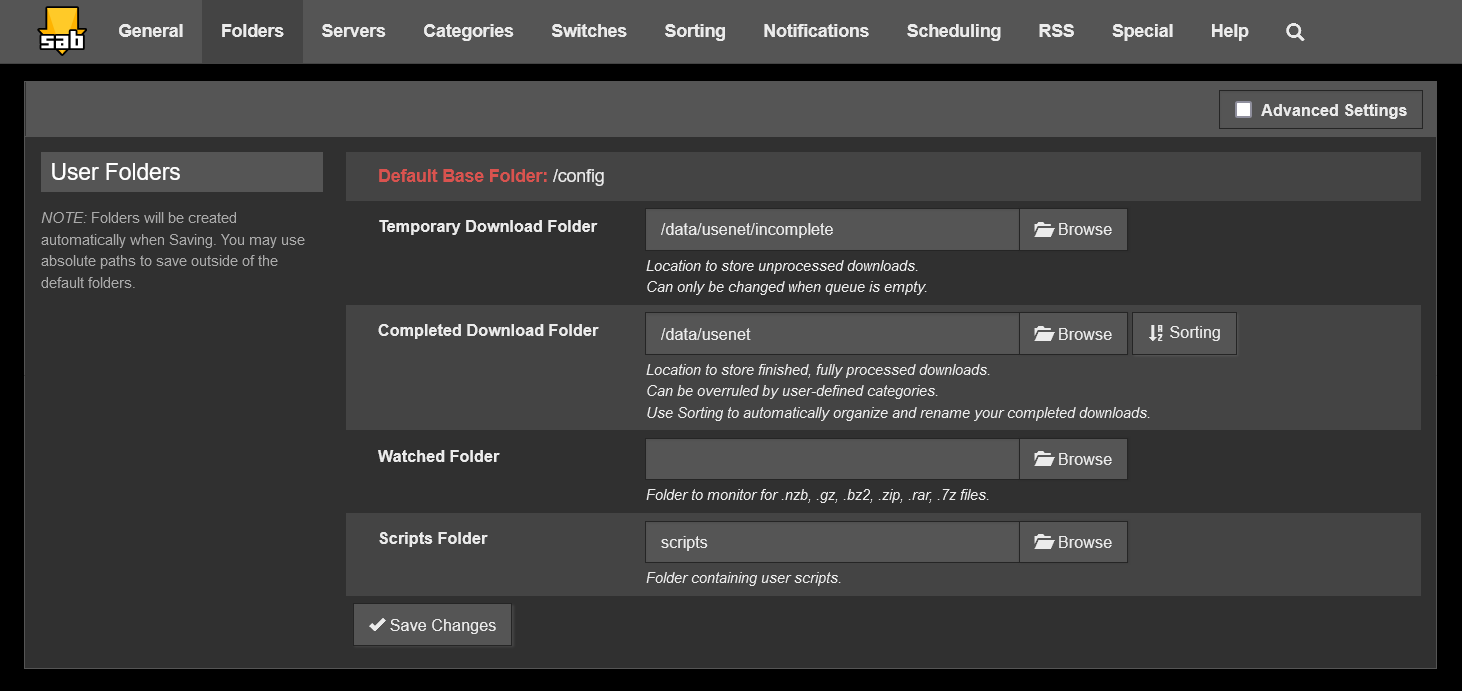
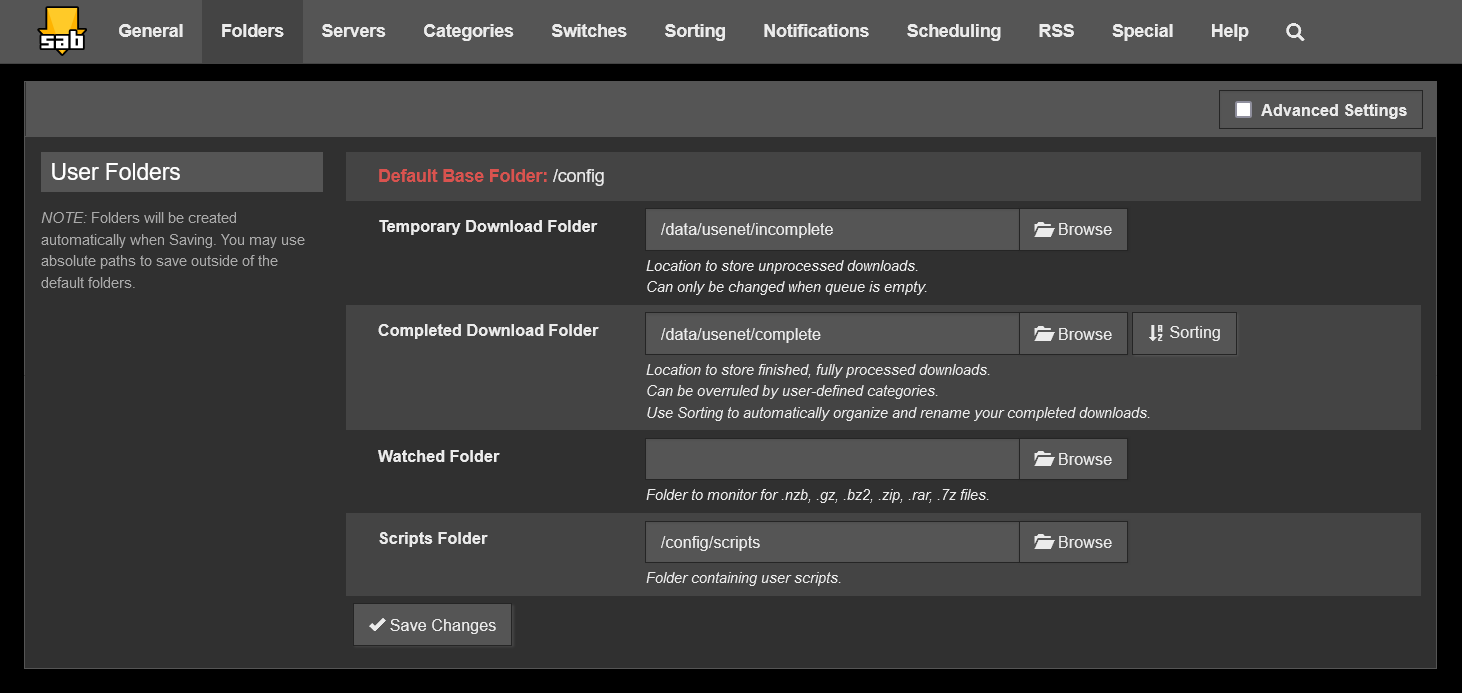
Update

diff --git a/Installation.md b/Installation.md
@@ -5,14 +5,12 @@
 - [Chart customization](#chart-customization)
     - [Environment variables](#environment-variables)
 - [Do not run containers as root. File permissions](#do-not-run-containers-as-root-file-permissions)
+- [Folder Structure](#folder-structure)
 - [Hard links](#hard-links)
 - [Cert-manager](#cert-manager)
 - [Authentik](#authentik)
     - [Setup](#setup)
 - [Homepage](#homepage)
-- [Plex](#plex)
-    - [Setup](#setup-1)
-- [Jellyfin](#jellyfin)
 - [Radarr](#radarr)
     - [Hardlinks](#hardlinks)
     - [Profile](#profile)
@@ -26,6 +24,9 @@
     - [Proxy](#proxy-1)
     - [Custom Formats](#custom-formats-1)
 - [Prowlarr](#prowlarr)
+- [Plex](#plex)
+    - [Setup](#setup-1)
+- [Jellyfin](#jellyfin)
 - [Jellyseerr](#jellyseerr)
     - [Setup](#setup-2)
 - [qBittorrent](#qbittorrent)
@@ -91,7 +92,7 @@ ingress:
 
 The user with the specified UID/GID must exist on the host machine and should be unprivileged. See the [File permissions](#do-not-run-containers-as-root-file-permissions) section for details.
 
-Install the server:
+Finally, install the server:
 ```sh
 ./bin/install.sh
 ```
@@ -104,11 +105,11 @@ After installation, please carry out all the steps from the [#cert-manager](#cer
 Having verified that cert-manager and Authentik are functioning properly, you can proceed to enabling individual services.
 All services are optional. Just enable the ones you need.
 
-Service sections in `values.yaml` should be self-explanatory. The required parameters are marked with a `# REQUIRED` commment, the rest can be left default or changed to your liking. Make sure that directories used by a service do actually exist on the host and are owned by the same user and group you specified in `host.uid`/`host.gid`.
+Service sections in `values.yaml` should be self-explanatory since all important variables are documented. The required parameters are marked with a `# REQUIRED` commment, the rest can be left default or changed to your liking. Make sure that directories used by a service do actually exist on the host and are owned by the same user and group you specified in `host.uid`/`host.gid`.
 
-This document covers all the services used in this chart and provides some useful notes. Return to this document if you're having troubles. Open an issue in this GitHub repo if your problem is not covered here. Please ensure that it's an indeed chart's issue and always read the service's docs first.
+This document covers most of the services used in this chart and provides some useful notes. Return to this document if you're having troubles. Open an issue in this GitHub repo if your problem is not covered here. Please ensure that it's an indeed chart's issue and always read the service's docs first.
 
-If you're a newbie, it's especially worth to give this document a read from start to finish. It has pretty detailed instructions for services like [Plex](#plex), [Radarr](#radarr), [Jellyseerr](#jellyseerr), and [qBittorrent](#qbittorrent).
+If you're a newbie, it's especially worth to give this document a read from start to finish. It has detailed instructions for core services like [Plex](#plex), [Radarr](#radarr)/[Sonarr](#sonarr), [Jellyseerr](#jellyseerr), and [qBittorrent](#qbittorrent).
 
 Have fun!
 
@@ -193,6 +194,43 @@ That is to say, the only thing you should do is:
 
 ---
 
+## Folder Structure
+
+Here's an overview of a folder structure that this chart uses by default. The necessary paths are already set in `values.template.yaml`:
+```text
+data
+├── torrents
+│   ├── movies
+│   └── tv
+│   ├── music
+│   ├── books
+│   └── xxx
+├── usenet
+│   ├── incomplete
+│   └── complete
+│       ├── movies
+│       └── tv
+│       ├── music
+│       ├── books
+│       └── xxx
+└── library
+    ├── movies
+    └── tv
+    ├── music
+    ├── books
+    └── xxx
+```
+
+The torrent downloads paths (movies, tv, etc.) are controlled by a download category you use. If you set a `movies` category for Radarr-initiated downloads, the respective `/data/torrents/movies` directory will be created by qBittorrent automatically. E.g. your qBittorrent setup can look like this:
+![qBittorrent categories](assets/qbittorrent-categories.png)
+
+The same applies to Usenet downloads. If you set a `movies` category for Radarr-initiated downloads, the respective `/data/usenet/movies` directory will be created by SABnzbd automatically. Note the categories must be pre-created first before setting up a download client in the *arr stack. E.g. your SABnzbd setup can look like this:
+![SABnzbd categories](assets/sabnzbd-categories.png)
+
+The data folder itself can be placed wherever you like. Personally, I put this in the root at `/data`.
+
+---
+
 ## Hard links
 
 You've probably heard about hard links in context of Radarr/Sonarr and Torrent clients.
@@ -207,18 +245,23 @@ This chart fully supports hard links. If you have followed the [Radarr](#radarr)
 
 Just to double-check, here's what you need to do:
 1. Radarr:
-    - In Settings -> Media Management add a root folder with the path of `/data/library/movies`. The Radarr container should have access to the `/data` directory on the host, i.e. `services.radarr.data=/data`
+    - The Radarr container should have access to the `/data` directory on the host, i.e. `services.radarr.data=/data`
+    - In Settings -> Media Management add a root folder with the path of `/data/library/movies`
 2. Sonarr:
-    - In Settings -> Media Management add a root folder with the path of `/data/library/tv`. The Sonarr container should have access to the `/data` directory on the host, i.e. `services.sonarr.data=/data`
+    - The Sonarr container should have access to the `/data` directory on the host, i.e. `services.sonarr.data=/data`
+    - In Settings -> Media Management add a root folder with the path of `/data/library/tv`
 3. qBittorrent:
-    - In Settings -> Downloads set `Default Save Path (complete)` to `/data/torrents`. Do not touch the other paths. The qBittorrent container should have access to the `/data/torrents` directory on the host, i.e. `services.qbittorrent.data=/data/torrents`
-    - The same applies to SABnzbd (just replace `/data/torrents` with `/data/usenet`)
-4. Plex:
+    - The qBittorrent container should have access to the `/data/torrents` directory on the host, i.e. `services.qbittorrent.data=/data/torrents`
+    - In Settings -> Downloads set `Default Save Path (complete)` to `/data/torrents`. Do not touch the other paths
+4. SABnzbd
+    - The SABnzbd container should have access to the `/data/usenet` directory on the host, i.e. `services.sabnzbd.data=/data/usenet`
+    - In Settings -> Folders set `Completed Download Folder` to `/data/usenet/complete` and `Temporary Download Folder` to `/data/usenet/incomplete`
+5. Plex:
+    - The Plex container should have access to the `/data/library` directory on the host, i.e. `services.plex.library=/data/library`
     - Add 2 libraries:
         - `Movies` with the path of `/data/library/movies`
         - `TV Shows` with the path of `/data/library/tv`
-    - The Plex container should have access to the `/data/library` directory on the host, i.e. `services.plex.library=/data/library`
-    - The same applies to Jellyfin (the path is the same)
+    - The same applies to Jellyfin
 
 The setup above implies you haven't changed the default paths set in `values.yaml`, otherwise use the ones you set.
 
@@ -233,7 +276,7 @@ total 22884576
                    |
 ```
 
-The third column shows the number of hardlinks. If this number equals `2`, you're good. In case you were wondering where the second hardlink lies, it's `/data/torrents/radarr/`:
+The third column shows the number of hardlinks. If this number equals `2`, you're good. In case you were wondering where the second hardlink lies, it's `/data/torrents/radarr/`, i.e. the torrent client continues seeding:
 ```sh
 $ ls -li /data/torrents/radarr/
 4849714 -rw-r--r-- 2 jelly jelly 23433785758 Oct  2 21:42 John.Wick.Chapter.4.2023.1080p.BluRay.DDP.7.1.x264-SPHD_EniaHD.mkv
@@ -242,6 +285,8 @@ $ ls -li /data/torrents/radarr/
 Note the number in the first column - `4849714`. It's an *[inode](https://en.wikipedia.org/wiki/Inode)* number, which is the same for these 2 files.
 
 By the way, data won't be deleted from your filesystem until you delete all the hardlinks. Practically this means you have to delete a movie from both Radarr and qBittorrent whenever you want to claim back some space.
+
+The above does not apply to SABnzbd as Usenet protocol doesn't even have a notion of seeding so there's no need to have multiple hardlinks. However, the *arr stack will still benefit from having an access to the whole data directory, since it'll be able to [move downloads instantly](https://trash-guides.info/File-and-Folder-Structure/Hardlinks-and-Instant-Moves/#what-are-instant-moves-atomic-moves).
 
 ---
 
@@ -401,42 +446,10 @@ Actually, sometimes you want to keep internal service's auth in case it allows y
 
 Available at `homepage.<domain>.<tld>` and at the root domain `<domain>.<tld>` by default (the service to serve on the root domain can be controlled via `ingress.rootService`).
 
-Any `.yaml` files you put in `files/homepage` (the file hierarchy should be flat) will be dynamically loaded into the config directory inside the container and used by Homepage if they follow proper name conventions (`settings.yaml`, `widgets.yaml`, etc.).
-These files are Helm template files, so you can reference any value as you would do normally in a template.
+Any `.yaml` files you put in the directory `files/homepage`  will be dynamically loaded into the config directory inside the container and used by Homepage if they follow proper name conventions (`settings.yaml`, `widgets.yaml`, etc.). Note the file hierarchy must be flat.
+These files are Helm template files, so you can reference any Helm value as you would do normally in a template.
 
-I provided some sensible default configuration files at `files/homepage/default`. You can either copy them to `files/homepage` and tune them to your liking or create your own config files from scratch (see the official [Homepage docs](https://gethomepage.dev/configs/) on this topic).
-
----
-
-## Plex
-
-Available at `plex.<domain>.<tld>`.
-
-### Setup
-
-Go to `https://plex.<domain>.<tld>/web` and carry out the initial setup.
-
-Now we need to configure Plex properly. I'll redirect you to *TRaSH Guides*, the awesome resource which covers the whole *arr stack and popular torrent/usenet downloaders. I can't appreciate it enough how much it helped me initially.
-
-Follow this guide - [Trash Guides#Suggested Plex Media Server Settings](https://trash-guides.info/Plex/Tips/Plex-media-server/). Note that some settings might be missing if you don't have an active Plex Pass subscription.
-
-Ensure that you've set up the libraries as follows:
-1. Movies:
-    - Scanner: `Plex Movie`
-    - Agent: `Plex Movie`
-    - Folders: `/data/library/movies`
-2. TV Shows:
-    - Scanner: `Plex TV Series`
-    - Agent: `Plex Series`
-    - Folders: `/data/library/tv`
-
----
-
-## Jellyfin
-
-Available at `jellyfin.<domain>.<tld>`.
-
-See the official docs at <https://jellyfin.org/docs/>.
+I provided some sensible default configuration files at `files/homepage/default`. They are not used by default. You can either copy them to `files/homepage` and tune them to your liking or create your own config files from scratch (see the official [Homepage docs](https://gethomepage.dev/configs/)).
 
 ---
 
@@ -446,14 +459,15 @@ Available at `radarr.<domain>.<tld>`.
 
 ### Hardlinks
 
-To enable [hardlinks](https://trash-guides.info/File-and-Folder-Structure/Hardlinks-and-Instant-Moves/) go to Settings -> Media Management, Importing, and ensure `Use Hardlinks instead of Copy` is checked.
-
-The container should have access to the `/data` directory on the host, i.e. `services.radarr.data=/data`.
-Ensure the directory is owned by the same user and group you specified in `host.uid`/`host.gid`:
-```sh
-sudo chown -R $USER:$USER /data
-sudo chmod -R a=,a+rX,u+w,g+w /data
-```
+To enable [hardlinks](https://trash-guides.info/File-and-Folder-Structure/Hardlinks-and-Instant-Moves/), all of the steps below must be carried out:
+1. Ensure the Radarr container has access to the whole `/data` directory on the host, meaning you've set `services.radarr.data=/data`
+2. Ensure the `/data` directory is owned by the same user and group you specified in `host.uid`/`host.gid`:
+    ```sh
+    sudo chown -R <uid>:<gid> /data
+    sudo chmod -R a=,a+rX,u+w,g+w /data
+    ```
+3. Go to Settings -> Media Management, Importing, and ensure `Use Hardlinks instead of Copy` is checked
+4. Go to Settings -> Media Management, Root Folders, and add a Root Folder with the path of `/data/library/movies`. The directory must be pre-created manually first. This is the path which you'll also use in Plex when adding a Movies library
 
 ### Profile
 
@@ -563,14 +577,15 @@ Sonarr is very similar to Radarr in terms of UI and capabilities. In fact, Radar
 
 ### Hardlinks
 
-To enable [hardlinks](https://trash-guides.info/File-and-Folder-Structure/Hardlinks-and-Instant-Moves/) go to Settings -> Media Management, Importing, and ensure `Use Hardlinks instead of Copy` is checked.
-
-The container should have access to the `/data` directory on the host, i.e. `services.sonarr.data=/data`.
-Ensure the directory is owned by the same user and group you specified in `host.uid`/`host.gid`:
-```sh
-sudo chown -R $USER:$USER /data
-sudo chmod -R a=,a+rX,u+w,g+w /data
-```
+To enable [hardlinks](https://trash-guides.info/File-and-Folder-Structure/Hardlinks-and-Instant-Moves/), all of the steps below must be carried out:
+1. Ensure the Sonarr container has access to the whole `/data` directory on the host, meaning you've set `services.sonarr.data=/data`
+2. Ensure the `/data` directory is owned by the same user and group you specified in `host.uid`/`host.gid`:
+    ```sh
+    sudo chown -R <uid>:<gid> /data
+    sudo chmod -R a=,a+rX,u+w,g+w /data
+    ```
+3. Go to Settings -> Media Management, Importing, and ensure `Use Hardlinks instead of Copy` is checked
+4. Go to Settings -> Media Management, Root Folders, and add a Root Folder with the path of `/data/library/tv`. The directory must be pre-created manually first. This is the path which you'll also use in Plex when adding a TV Series library
 
 ### Profile
 
@@ -653,6 +668,38 @@ Arr Apps:
 Great. Now your indexers will be automatically synced to Radarr and Sonarr. This is the time to add some other indexers of your liking before moving on.
 
 For detailed info refer to the [Trash Guides](https://trash-guides.info/Prowlarr/) and official [Servarr Wiki](https://wiki.servarr.com/en/prowlarr).
+
+---
+
+## Plex
+
+Available at `plex.<domain>.<tld>`.
+
+### Setup
+
+Go to `https://plex.<domain>.<tld>/web` and carry out the initial setup.
+
+Now we need to configure the Plex instance properly. I'll redirect you to *TRaSH Guides*, the awesome resource which covers the whole *arr stack and popular torrent/usenet downloaders. I can't appreciate it enough how much it helped me initially.
+
+Follow this guide - [Trash Guides#Suggested Plex Media Server Settings](https://trash-guides.info/Plex/Tips/Plex-media-server/). Note that some settings might be missing if you don't have an active Plex Pass subscription.
+
+Ensure that you've set up the libraries as follows:
+1. Movies:
+    - Scanner: `Plex Movie`
+    - Agent: `Plex Movie`
+    - Folders: `/data/library/movies`
+2. TV Shows:
+    - Scanner: `Plex TV Series`
+    - Agent: `Plex Series`
+    - Folders: `/data/library/tv`
+
+---
+
+## Jellyfin
+
+Available at `jellyfin.<domain>.<tld>`.
+
+See the official docs at <https://jellyfin.org/docs/>.
 
 ---
 
@@ -745,7 +792,7 @@ After finishing the guide above adjust the following settings as well:
         - When Torrent Category changed: `Relocate torrent`
         - When Default Save Path changed: `Relocate affected torrents`
         - When Category Save Path changed: `Relocate affected torrents`
-        - Default Save Path: `/data/torrents`
+        - Default Save Path: `/data/torrents` (controlled via `services.qbittorrent.data`)
     - Click `Save`
 3. WebUI:
     - Authentication:
@@ -754,7 +801,7 @@ After finishing the guide above adjust the following settings as well:
     - Optional: Check `Use alternative WebUI` and type in the following in the box below: `/vuetorrent`. This will enable the alternative WebUI, [VueTorrent](https://github.com/VueTorrent/VueTorrent), which is more user/mobile-friendly
     - Click `Save`
 
-Now you need to allow the torrenting p2p port in your firewall, if you have one enabled. Otherwise you won't be considered an "active" seed, i.e. peers with a closed port won't be able to connect to you, which means you will seed less and slower. By default this port is `32700`. This value may be controlled via `services.qbittorrent.ports.p2p`. Note that the port must be in the range of `30000-32767` (see [Kubernetes#NodePort](https://kubernetes.io/docs/concepts/services-networking/service/#type-nodeport)).
+Now you need to allow the torrenting p2p port in your firewall, if you have one enabled. Otherwise you won't be considered an "active" seed, i.e. peers with a closed port won't be able to connect to you, which means you'll seed less and slower. By default this port is `32700`. This value may be controlled via `services.qbittorrent.ports.p2p`. Note that the port must be in the range of `30000-32767` (see [Kubernetes#NodePort](https://kubernetes.io/docs/concepts/services-networking/service/#type-nodeport)).
 
 For Debian/Ubuntu execute the following command:
 ```sh
@@ -770,14 +817,17 @@ Available at `usenet.<domain>.<tld>`.
 
 Please refer to [Trash Guides](https://trash-guides.info/Downloaders/SABnzbd/Basic-Setup/) for setup instructions.
 
-Make sure to set `/data/usenet` as a download path in the settings:
-![SABnzbd](assets/sabnzbd-settings-folders.png)
+After finishing the guide above, make sure the temporary and completed download folders are set as follows:
+![SABnzbd folders](assets/sabnzbd-settings-folders.png)
+
+You also need to set up categories for usage in the *arr stack:
+![SABnzbd categories](assets/sabnzbd-categories.png)
 
 This chart includes a few useful scripts found at [Trash Guides#SABnzbd Scripts](https://trash-guides.info/Downloaders/SABnzbd/scripts/). They are mapped at `/config/scripts`:
 - [Clean.py](https://trash-guides.info/Downloaders/SABnzbd/scripts/#clean)
-    - Set this script as a `Pre-queue script` in Settings -> Switches
+    - Set this script as a `Pre-queue script` in Settings -> Switches. Make sure you enabled Advanced Settings, otherwise you won't see this setting
 - [replace_for.py](https://trash-guides.info/Downloaders/SABnzbd/scripts/#replace_for)
-    - Set this script in Settings -> Categories for each category (movies, tv)
+    - Set this script in Settings -> Categories for each category (movies, tv, etc.)
 
 ---
 
@@ -821,7 +871,7 @@ The default username is `admin` and password is `password`. Please change the cr
 
 Unfortunately there's no way to disable auth or use forward auth, so you probably want to disable Authentik for Huginn and use the built-in auth system solely.
 This is especially true if you expect to run webhooks since Authentik would interfere with third-party services pushing updates to your instance.
-Don't forget to set `services.huginn.invitationCode` to a cryptographically secure random value. This will keep the strangers away from using your Huginn instance since they'll require an invitation code to sign up.
+Don't forget to set `services.huginn.invitationCode` to a cryptographically secure random value. This will keep the strangers away from using your Huginn instance since it'll require them to have an invitation code to sign up.
 
 ---
 
@@ -865,10 +915,10 @@ Available at `kometa.<domain>.<tld>`.
 
 See the official docs at <https://kometa.wiki>.
 
-Any `.yaml` files you put in `files/kometa` (the file hierarchy should be flat) will be dynamically loaded into the config directory inside the container and used by Kometa if they follow proper name conventions.
-These files are Helm template files, so you can reference any value as you would do normally in a template.
+Any `.yaml` files you put in the directory `files/kometa` will be dynamically loaded into the config directory inside the container and used by Kometa if they follow proper name conventions. Note the file hierarchy should be flat.
+These files are Helm template files, so you can reference any Helm value as you would do normally in a template.
 
-I provided some sensible default configuration files at `files/kometa/default`. You can either copy them to `files/kometa` and tune them to your liking or create your own config files from scratch (see the official [Kometa wiki](https://kometa.wiki) on this topic).
+I provided some sensible default configuration files at `files/kometa/default`. They are not enabled by default. You can either copy them to `files/kometa` and tune them to your liking or create your own config files from scratch (see the official [Kometa wiki](https://kometa.wiki)).
 
 Make sure to actually put a config file named `config.yaml` into `files/kometa`, otherwise Kometa won't be working.
 
